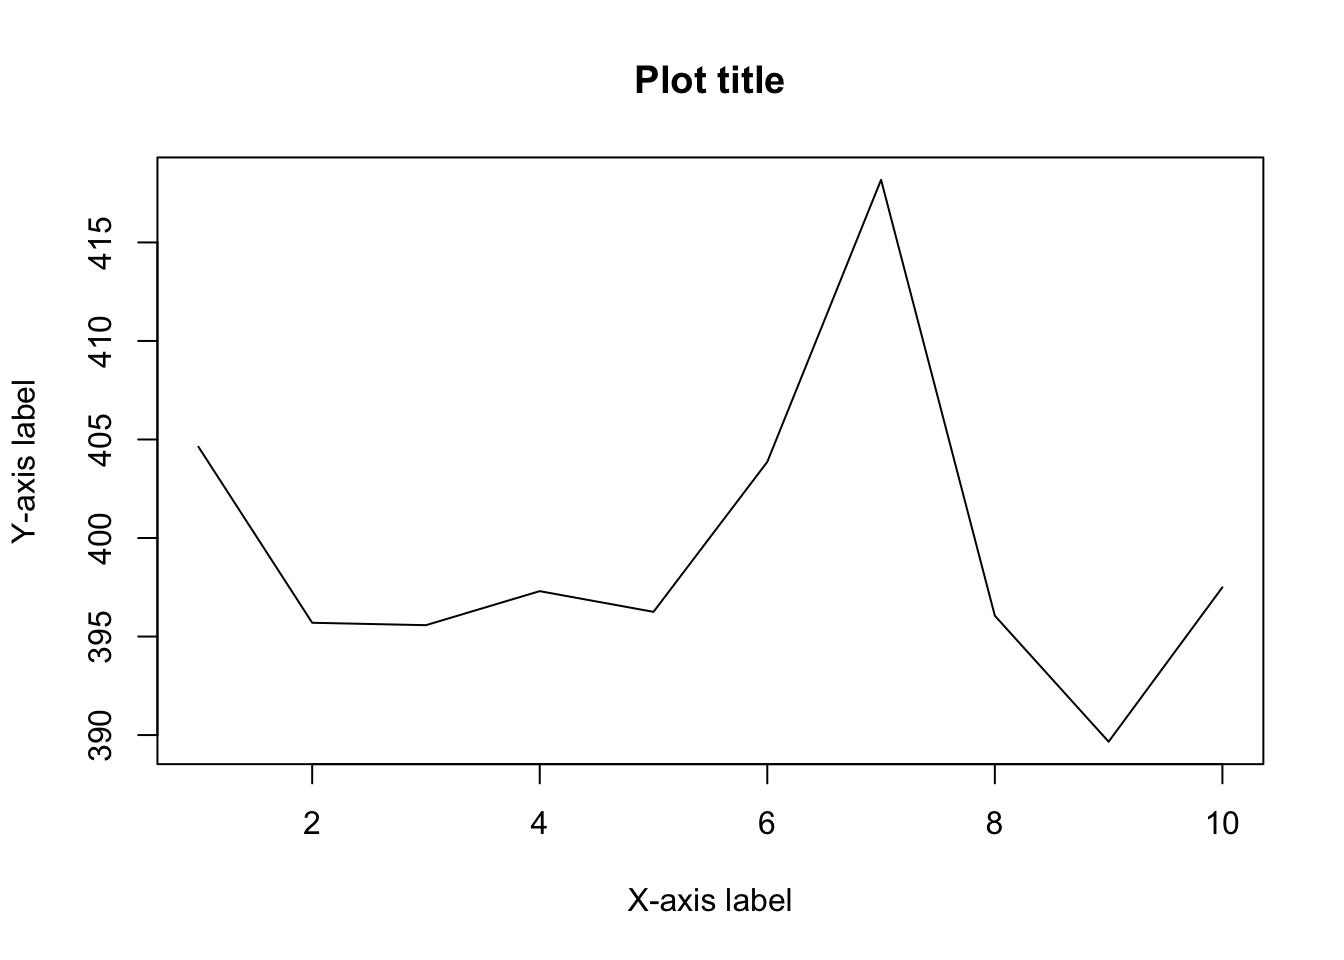
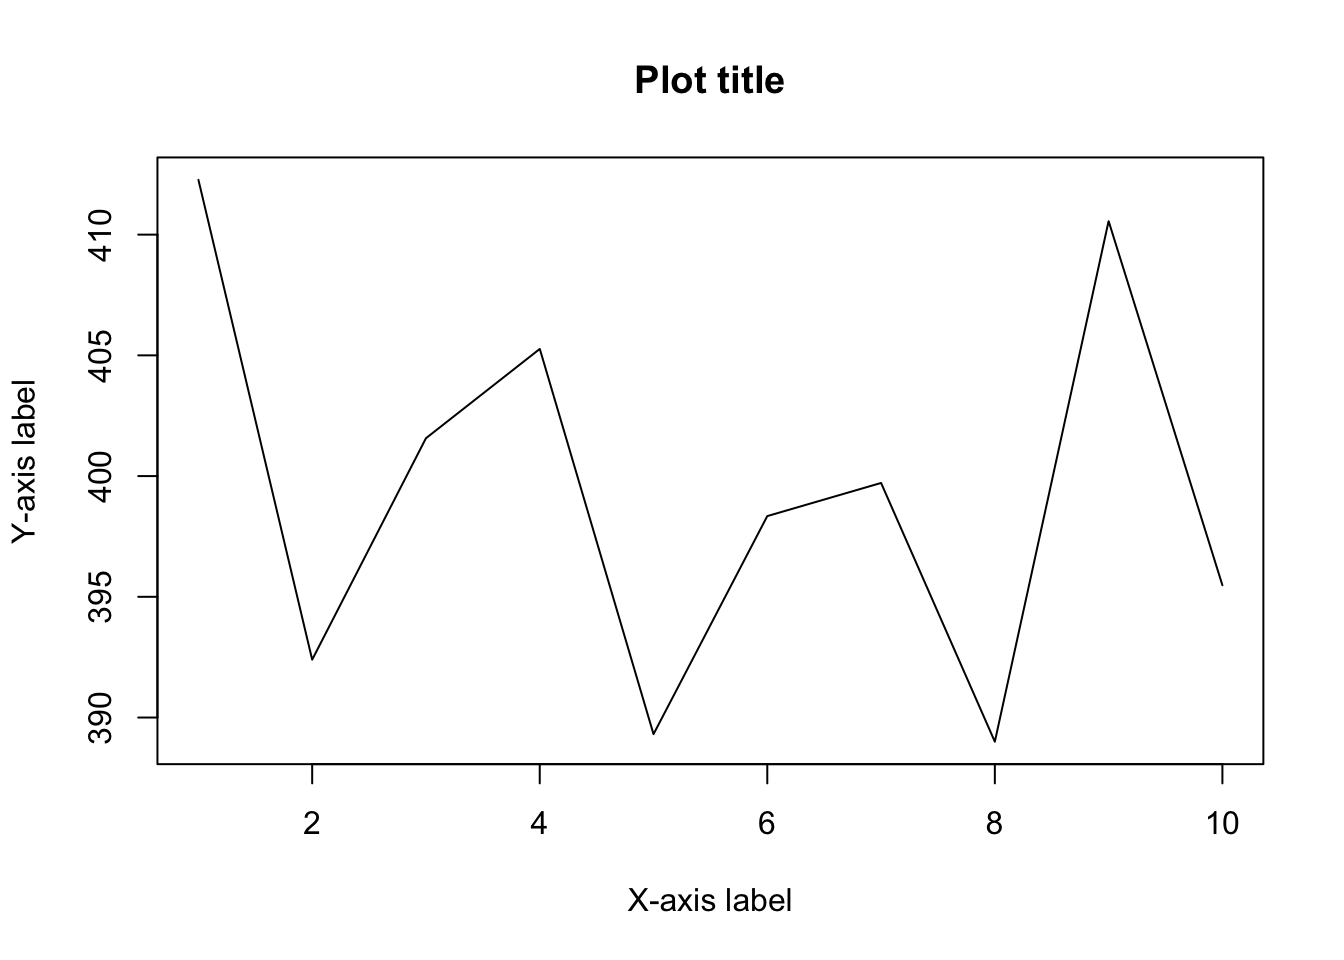
edit posts

diff --git a/content/blog/how-to-create-an-interactive-booklist-with-automatic-affiliate-links-in-r.html b/content/blog/how-to-create-an-interactive-booklist-with-automatic-affiliate-links-in-r.html
@@ -59,7 +59,9 @@ output:
 <p><img src="/blog/how-to-create-an-interactive-booklist-with-automatic-affiliate-links-in-r_files/booklist-with-amazon-affiliate-links.jpeg" style="width:100.0%" /></p>
 <div id="introduction" class="section level1">
 <h1>Introduction</h1>
-<p>Booklists are a useful way to share the books you have read and which you recommend to other readers and/or to promote the books you have written. It can be as simple as a list of book titles displayed on your personal website or blog. You may however wish to present this list of books in a more sophisticated way, such as in a table with titles, authors and links to buy it for instance. In this blog post I show you how to create an interactive booklist with automatic Amazon affiliate links in R. By interactive, I mean a booklist which allows users to search for books by title or author. Moreover, by automatic Amazon affiliate links, I mean URLs (with your affiliate link of course) that redirect directly to the book in question on the Amazon webstore, without manually creating a link for each book. This technique is especially helpful for those of you who have hundreds of books in their list as you will need to create the URL only once and it will adapt automatically to all books. If this is not clear, see a <a href="https://www.antoinesoetewey.com/files/booklist.html" target="_blank" rel="noopener">live example here</a>.</p>
+<p>Booklists are a useful way to share the books you have read and which you recommend to other readers and/or to promote the books you have written. It can be as simple as a list of book titles displayed on your personal website or blog. You may however wish to present this list of books in a more sophisticated way, such as in a table with titles, authors and links to buy it for instance.</p>
+<p>In this blog post I show you how to create an interactive booklist with automatic Amazon affiliate links in R. By interactive, I mean a booklist which allows users to search for books by title or author. Moreover, by automatic Amazon affiliate links, I mean URLs (with your affiliate link of course) that redirect directly to the book in question on the Amazon webstore, without manually creating a link for each book.</p>
+<p>This technique is especially helpful for those of you who have hundreds of books in their list as you will need to create the URL only once and it will adapt automatically to all books. If this is not clear, see a <a href="https://www.antoinesoetewey.com/files/booklist.html" target="_blank" rel="noopener">live example here</a>.</p>
 </div>
 <div id="requirements" class="section level1">
 <h1>Requirements</h1>

diff --git a/public/blog/how-to-create-an-interactive-booklist-with-automatic-amazon-affiliate-links-in-r/index.html b/public/blog/how-to-create-an-interactive-booklist-with-automatic-amazon-affiliate-links-in-r/index.html
@@ -205,7 +205,9 @@
 <p><img src="/blog/how-to-create-an-interactive-booklist-with-automatic-affiliate-links-in-r_files/booklist-with-amazon-affiliate-links.jpeg" style="width:100.0%" /></p>
 <div id="introduction" class="section level1">
 <h1>Introduction</h1>
-<p>Booklists are a useful way to share the books you have read and which you recommend to other readers and/or to promote the books you have written. It can be as simple as a list of book titles displayed on your personal website or blog. You may however wish to present this list of books in a more sophisticated way, such as in a table with titles, authors and links to buy it for instance. In this blog post I show you how to create an interactive booklist with automatic Amazon affiliate links in R. By interactive, I mean a booklist which allows users to search for books by title or author. Moreover, by automatic Amazon affiliate links, I mean URLs (with your affiliate link of course) that redirect directly to the book in question on the Amazon webstore, without manually creating a link for each book. This technique is especially helpful for those of you who have hundreds of books in their list as you will need to create the URL only once and it will adapt automatically to all books. If this is not clear, see a <a href="https://www.antoinesoetewey.com/files/booklist.html" target="_blank" rel="noopener">live example here</a>.</p>
+<p>Booklists are a useful way to share the books you have read and which you recommend to other readers and/or to promote the books you have written. It can be as simple as a list of book titles displayed on your personal website or blog. You may however wish to present this list of books in a more sophisticated way, such as in a table with titles, authors and links to buy it for instance.</p>
+<p>In this blog post I show you how to create an interactive booklist with automatic Amazon affiliate links in R. By interactive, I mean a booklist which allows users to search for books by title or author. Moreover, by automatic Amazon affiliate links, I mean URLs (with your affiliate link of course) that redirect directly to the book in question on the Amazon webstore, without manually creating a link for each book.</p>
+<p>This technique is especially helpful for those of you who have hundreds of books in their list as you will need to create the URL only once and it will adapt automatically to all books. If this is not clear, see a <a href="https://www.antoinesoetewey.com/files/booklist.html" target="_blank" rel="noopener">live example here</a>.</p>
 </div>
 <div id="requirements" class="section level1">
 <h1>Requirements</h1>

diff --git a/content/blog/data-manipulation-in-rstudio.html b/content/blog/data-manipulation-in-rstudio.html
@@ -49,7 +49,8 @@ output:
 <p><img src="/blog/data-manipulation-in-rstudio_files/0_voEJp2o-Z2k4-uUd.jpeg" style="width:100.0%" /></p>
 <div id="introduction" class="section level1">
 <h1>Introduction</h1>
-<p>Not all datasets are as clean and tidy as you would expect. Therefore, after <a href="/blog/how-to-import-an-excel-file-in-rstudio/">importing your dataset into RStudio</a>, most of the time you will need to prepare it before performing any statistical analyses. Data manipulation can even sometimes take longer than the actual analyses when the quality of the data is poor. Data manipulation include a broad range of tools and techniques. We present here in details the manipulations that you will most likely need for your projects. Do not hesitate to let me know (as a comment at the end of this article for example) if you find other data manipulations essential so that I can add them.</p>
+<p>Not all datasets are as clean and tidy as you would expect. Therefore, after <a href="/blog/how-to-import-an-excel-file-in-rstudio/">importing your dataset into RStudio</a>, most of the time you will need to prepare it before performing any statistical analyses. Data manipulation can even sometimes take longer than the actual analyses when the quality of the data is poor. Data manipulation include a broad range of tools and techniques.</p>
+<p>We present here in details the manipulations that you will most likely need for your projects. Do not hesitate to let me know (as a comment at the end of this article for example) if you find other data manipulations essential so that I can add them.</p>
 </div>
 <div id="dataset" class="section level1">
 <h1>Dataset</h1>
@@ -156,9 +157,9 @@ dat # display the entire dataset</code></pre>
 <pre class="r"><code>library(dplyr)
 sample_n(dat, 4, replace = FALSE)</code></pre>
 <pre><code>##   speed dist
-## 1    13   46
-## 2    20   32
-## 3    22   66
+## 1    12   20
+## 2    10   26
+## 3    18   56
 ## 4     8   16</code></pre>
 </div>
 <div id="based-on-row-or-column-numbers" class="section level2">

diff --git a/public/blog/data-manipulation-in-r/index.html b/public/blog/data-manipulation-in-r/index.html
@@ -195,7 +195,8 @@
 <p><img src="/blog/data-manipulation-in-rstudio_files/0_voEJp2o-Z2k4-uUd.jpeg" style="width:100.0%" /></p>
 <div id="introduction" class="section level1">
 <h1>Introduction</h1>
-<p>Not all datasets are as clean and tidy as you would expect. Therefore, after <a href="/blog/how-to-import-an-excel-file-in-rstudio/">importing your dataset into RStudio</a>, most of the time you will need to prepare it before performing any statistical analyses. Data manipulation can even sometimes take longer than the actual analyses when the quality of the data is poor. Data manipulation include a broad range of tools and techniques. We present here in details the manipulations that you will most likely need for your projects. Do not hesitate to let me know (as a comment at the end of this article for example) if you find other data manipulations essential so that I can add them.</p>
+<p>Not all datasets are as clean and tidy as you would expect. Therefore, after <a href="/blog/how-to-import-an-excel-file-in-rstudio/">importing your dataset into RStudio</a>, most of the time you will need to prepare it before performing any statistical analyses. Data manipulation can even sometimes take longer than the actual analyses when the quality of the data is poor. Data manipulation include a broad range of tools and techniques.</p>
+<p>We present here in details the manipulations that you will most likely need for your projects. Do not hesitate to let me know (as a comment at the end of this article for example) if you find other data manipulations essential so that I can add them.</p>
 </div>
 <div id="dataset" class="section level1">
 <h1>Dataset</h1>
@@ -302,9 +303,9 @@ dat # display the entire dataset</code></pre>
 <pre class="r"><code>library(dplyr)
 sample_n(dat, 4, replace = FALSE)</code></pre>
 <pre><code>##   speed dist
-## 1    13   46
-## 2    20   32
-## 3    22   66
+## 1    12   20
+## 2    10   26
+## 3    18   56
 ## 4     8   16</code></pre>
 </div>
 <div id="based-on-row-or-column-numbers" class="section level2">

diff --git a/content/blog/how-to-install-r-and-rstudio.html b/content/blog/how-to-install-r-and-rstudio.html
@@ -40,7 +40,7 @@ output:
 <h1>What is R and RStudio?</h1>
 <div id="r" class="section level2">
 <h2>R</h2>
-<p><strong>R</strong> is nothing more than a programming language. At the time of writing, this language is (one of) the leading program in statistics, although not the only programming language used by statisticians.</p>
+<p>The statistical program <strong>R</strong> is nothing more than a programming language, mainly used for data manipulation and to perform statistical analyses. At the time of writing, this language is (one of) the leading program in statistics, although not the only programming language used by statisticians.</p>
 <p>In order to use R, we need two things:</p>
 <ul>
 <li>a text editor in which to write our code</li>
@@ -188,10 +188,10 @@ my_mat2</code></pre>
 <pre class="r"><code>my_vec &lt;- rnorm(10, mean = 400, sd = 10)
 # Display only the first 5 values:
 head(my_vec, 5)</code></pre>
-<pre><code>## [1] 404.6307 395.7005 395.5767 397.3042 396.2536</code></pre>
+<pre><code>## [1] 412.2662 392.3963 401.5675 405.2639 389.3117</code></pre>
 <pre class="r"><code># Display only the last 5 values:
 tail(my_vec, 5)</code></pre>
-<pre><code>## [1] 403.8633 418.1727 396.0566 389.6642 397.4986</code></pre>
+<pre><code>## [1] 398.3427 399.7158 388.9997 410.5533 395.4805</code></pre>
 <p>You will have different values than mines due to the fact that they are randomly generated. If you want to make sure to have always the same random values, use <code>set.seed()</code> (with any numeric inside the brackets). For instance, with the following code, you should have the exact same values, no matter where and when you run it:</p>
 <pre class="r"><code>set.seed(42)
 rnorm(3, mean = 10, sd = 2)</code></pre>

diff --git a/public/blog/how-to-install-r-and-rstudio/index.html b/public/blog/how-to-install-r-and-rstudio/index.html
@@ -186,7 +186,7 @@
 <h1>What is R and RStudio?</h1>
 <div id="r" class="section level2">
 <h2>R</h2>
-<p><strong>R</strong> is nothing more than a programming language. At the time of writing, this language is (one of) the leading program in statistics, although not the only programming language used by statisticians.</p>
+<p>The statistical program <strong>R</strong> is nothing more than a programming language, mainly used for data manipulation and to perform statistical analyses. At the time of writing, this language is (one of) the leading program in statistics, although not the only programming language used by statisticians.</p>
 <p>In order to use R, we need two things:</p>
 <ul>
 <li>a text editor in which to write our code</li>
@@ -334,10 +334,10 @@ my_mat2</code></pre>
 <pre class="r"><code>my_vec &lt;- rnorm(10, mean = 400, sd = 10)
 # Display only the first 5 values:
 head(my_vec, 5)</code></pre>
-<pre><code>## [1] 404.6307 395.7005 395.5767 397.3042 396.2536</code></pre>
+<pre><code>## [1] 412.2662 392.3963 401.5675 405.2639 389.3117</code></pre>
 <pre class="r"><code># Display only the last 5 values:
 tail(my_vec, 5)</code></pre>
-<pre><code>## [1] 403.8633 418.1727 396.0566 389.6642 397.4986</code></pre>
+<pre><code>## [1] 398.3427 399.7158 388.9997 410.5533 395.4805</code></pre>
 <p>You will have different values than mines due to the fact that they are randomly generated. If you want to make sure to have always the same random values, use <code>set.seed()</code> (with any numeric inside the brackets). For instance, with the following code, you should have the exact same values, no matter where and when you run it:</p>
 <pre class="r"><code>set.seed(42)
 rnorm(3, mean = 10, sd = 2)</code></pre>
